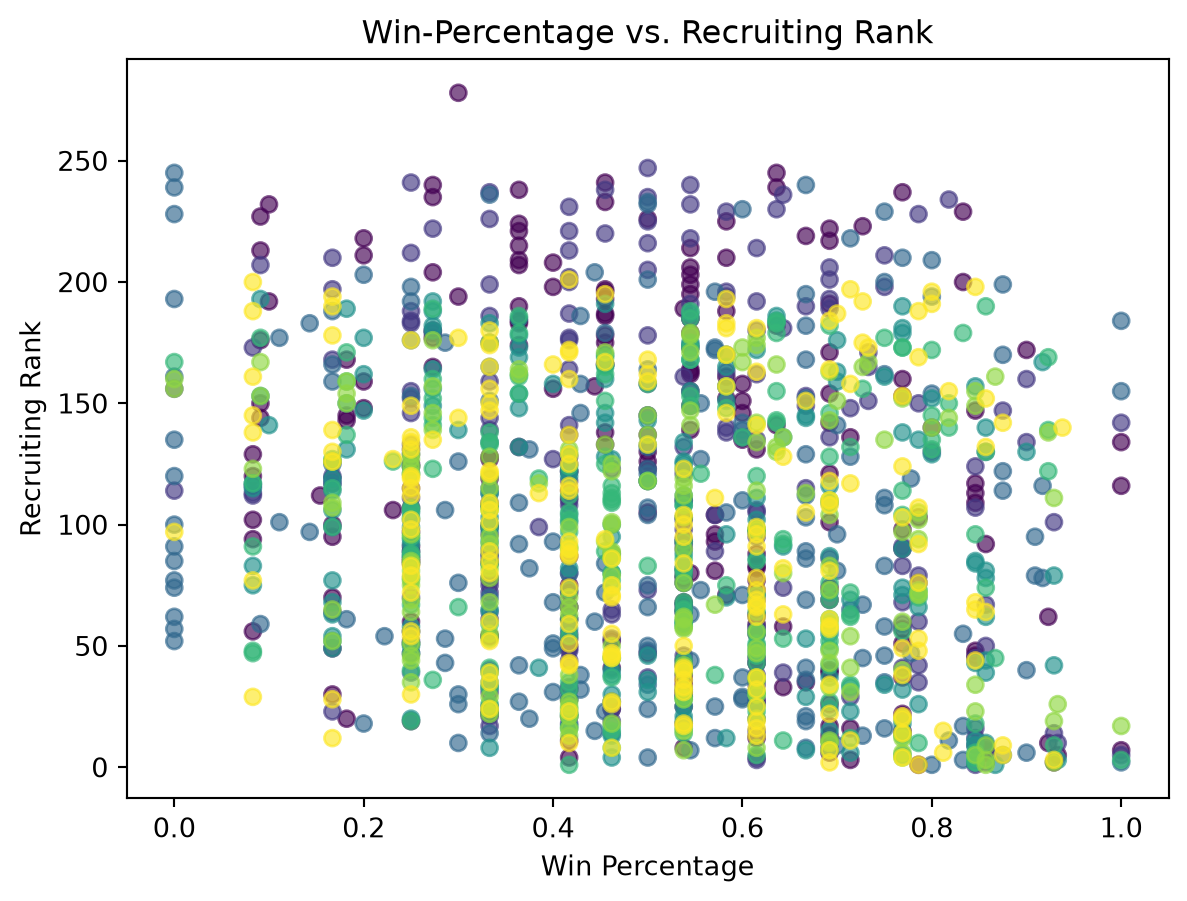
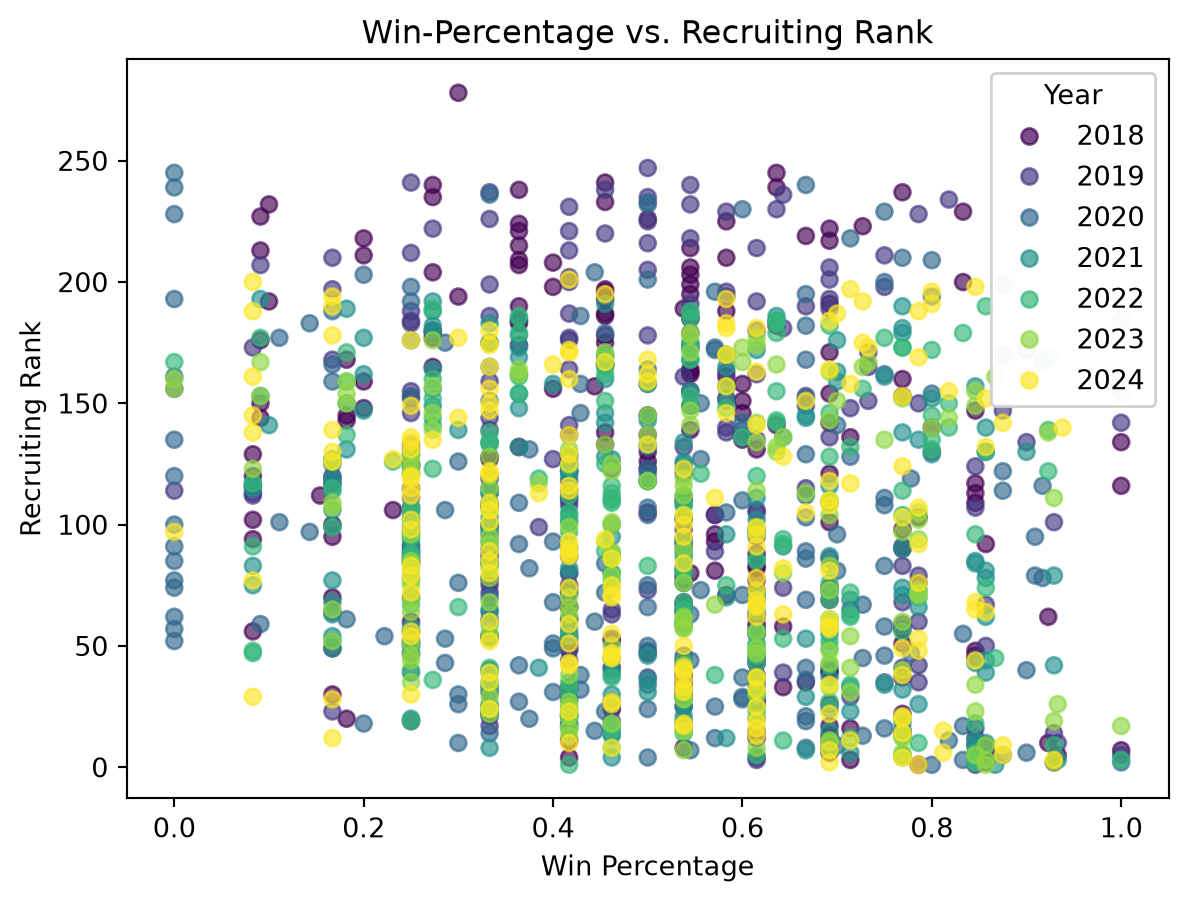
made minor grammatical changes and added a legend

diff --git a/docs/data_acquisiton_blog.html b/docs/data_acquisiton_blog.html
@@ -7,9 +7,9 @@
 <meta name="viewport" content="width=device-width, initial-scale=1.0, user-scalable=yes">
 
 <meta name="author" content="Hailey Peterson">
-<meta name="dcterms.date" content="2026-11-06">
+<meta name="dcterms.date" content="2026-11-13">
 
-<title>Data Acquisition: A How to Use College Football APIs – Hailey Peterson</title>
+<title>Data Acquisition: How to Use College Football APIs – Hailey Peterson</title>
 <style>
 /* Default styles provided by pandoc.
 ** See https://pandoc.org/MANUAL.html#variables-for-html for config info.
@@ -163,7 +163,7 @@ pre > code.sourceCode > span > a:first-child::before { text-decoration: underlin
   <ul class="collapse">
   <li><a href="#ethical-considerations" id="toc-ethical-considerations" class="nav-link" data-scroll-target="#ethical-considerations">Ethical Considerations</a></li>
   </ul></li>
-  <li><a href="#the-acquisition-pipleline-how-to-get-started" id="toc-the-acquisition-pipleline-how-to-get-started" class="nav-link" data-scroll-target="#the-acquisition-pipleline-how-to-get-started">The Acquisition Pipleline: How to Get Started</a>
+  <li><a href="#the-acquisition-pipeline-how-to-get-started" id="toc-the-acquisition-pipeline-how-to-get-started" class="nav-link" data-scroll-target="#the-acquisition-pipeline-how-to-get-started">The Acquisition Pipeline: How to Get Started</a>
   <ul class="collapse">
   <li><a href="#scaling-and-merging-across-seasons" id="toc-scaling-and-merging-across-seasons" class="nav-link" data-scroll-target="#scaling-and-merging-across-seasons">Scaling and Merging Across Seasons</a></li>
   </ul></li>
@@ -187,7 +187,7 @@ pre > code.sourceCode > span > a:first-child::before { text-decoration: underlin
 
 <header id="title-block-header" class="quarto-title-block default">
 <div class="quarto-title">
-<h1 class="title">Data Acquisition: A How to Use College Football APIs</h1>
+<h1 class="title">Data Acquisition: How to Use College Football APIs</h1>
 </div>
 
 
@@ -204,7 +204,7 @@ pre > code.sourceCode > span > a:first-child::before { text-decoration: underlin
     <div>
     <div class="quarto-title-meta-heading">Published</div>
     <div class="quarto-title-meta-contents">
-      <p class="date">November 6, 2026</p>
+      <p class="date">November 13, 2026</p>
     </div>
   </div>
   
@@ -218,15 +218,15 @@ pre > code.sourceCode > span > a:first-child::before { text-decoration: underlin
 
 <section id="introduction---motivation" class="level1">
 <h1>Introduction - Motivation</h1>
-<p>Every recruiting cycle, NCAA Division I athletic departments pour hundreds of thousands and upwards of millions of dollares into high school talent acquisition. With the recent explosion of Name, Image, and Likeness (NIL) collectives and transfer portal dynamics, the financial stakes of securing elite recruits has never been higher, even at risk of nearly bankrupting schools. Alumni and athletic directors pour immense capital into getting four or five star high school prospects with a single expectation: getting wins on Saturdays. But does an elite recruiting class reliably translate into regular-season success? Or do coaching schemes, development, transfer acquisitions, and conference membership dilute the power of raw high school talent? To investigate this question empirically, I curated an original multi-season dataset from 2018 to 2024. By combining historical recruiting composite rankings with seasonal win-loss records, this project explores the relationship between high school recruiting ranks and actual on-field winning percentage across FBS and FCS.</p>
+<p>Every recruiting cycle, NCAA Division I athletic departments pour hundreds of thousands and upwards of millions of dollars into high school talent acquisition. With the recent explosion of Name, Image, and Likeness (NIL) collectives and transfer portal dynamics, the financial stakes of securing elite recruits have never been higher, even at the risk of nearly bankrupting schools. Alumni and athletic directors pour immense capital into getting four or five star high school prospects with a single expectation: getting wins on Saturdays. But does an elite recruiting class reliably translate into regular-season success? Or do coaching schemes, development, transfer acquisitions, and conference membership dilute the power of raw high school talent? To investigate this question empirically, I curated an original multi-season dataset from 2018 to 2024. By combining historical recruiting composite rankings with seasonal win-loss records, this project explores the relationship between high school recruiting ranks and actual on-field winning percentage across FBS and FCS.</p>
 <section id="ethical-considerations" class="level2">
 <h2 class="anchored" data-anchor-id="ethical-considerations">Ethical Considerations</h2>
-<p>CFBD provids free academic and hobbyist API keys to anyone who register with their email. However, their official <a href="https://collegefootballdata.com/terms">CFBD Terms of Use</a> establish clear guidelines regarding security and redistribution. To sum up the terms, raw data outputs are prohibited from being a standalone download (i.e.&nbsp;no uploading the data to GitHub), API keys must remain confidential and should never be committed to GitHub, and automated scripts must respect server capacity (i.e.&nbsp;use a timer to space the calls to the server to not overload).</p>
+<p>CFBD provides free academic and hobbyist API keys to anyone who registers with their email. However, their official <a href="https://collegefootballdata.com/terms">CFBD Terms of Use</a> establish clear guidelines regarding security and redistribution. To sum up the terms, raw data outputs are prohibited from being a standalone download (i.e., no uploading the data to GitHub), API keys must remain confidential and should never be committed to GitHub, and automated scripts must respect server capacity (i.e., use a timer to space the calls to the server to not overload).</p>
 <p>To comply with these guidelines, I kept all API authentication tokens isolated in a local <code>.env</code> configuration file, which is permanently excluded via <code>.gitignore</code>. Furthermore, my collection pipeline incorporates explicit <code>time.sleep(0.5)</code> intervals between requests to maintain respectful server traffic.</p>
 </section>
 </section>
-<section id="the-acquisition-pipleline-how-to-get-started" class="level1">
-<h1>The Acquisition Pipleline: How to Get Started</h1>
+<section id="the-acquisition-pipeline-how-to-get-started" class="level1">
+<h1>The Acquisition Pipeline: How to Get Started</h1>
 <p>To begin, go to <a href="https://collegefootballdata.com">CollegeFootballData API</a> where you can submit your email to get your personalized API key. The email should come through immediately. Once you have your API key you can begin!</p>
 <p>If you want to assemble a similar sports dataset for your own research, you do not need complex web scrapers. The CFBD REST interface provides clean, structured JSON endpoints that can be fetched using Python’s <code>requests</code> library and normalized directly with <code>pandas</code>.</p>
 <p>You can review the full, reproducible collection pipeline in the project’s <a href="https://github.com/hnpeterson8/data_acquisition_blog_code">GitHub Repository</a> (specifically within <code>scripts/acquire_data.py</code>). Here is the core programmatic pattern used to retrieve and unpack recruiting rankings:</p>
@@ -252,8 +252,8 @@ pre > code.sourceCode > span > a:first-child::before { text-decoration: underlin
 <h3 class="anchored" data-anchor-id="scaling-and-merging-across-seasons">Scaling and Merging Across Seasons</h3>
 <p>In the <code>acquire_data.qmd</code> script, this pattern is scaled across target years (2018-2024) in two distinct phases:</p>
 <ol type="1">
-<li><strong>Iterative Batch Retrieval:</strong> A <code>for</code> loop queries <code>/recruiting/teams</code> for each season, tehn append each year’s batch to a list before stacking them vertically with <code>pd.concat()</code>. A secondary loop pulls the win-loss records from the <code>/records</code> endpoint. ow</li>
-<li><strong>Feature Engineering and Merging:</strong> Because the raw records endpoint returns separate counts for total games and wins, I computed win percentage as <code>win_pct = wins / games</code>. Then school names were standardized and the two tables were joined using <code>pd.merge()</code> on composite keys <code>['team', 'year']</code> with relational validataion (<code>validate = 'many_to_one'</code>).</li>
+<li><p><strong>Iterative Batch Retrieval:</strong> A <code>for</code> loop queries <code>/recruiting/teams</code> for each season, then append each year’s batch to a list before stacking them vertically with <code>pd.concat()</code>. A secondary loop pulls the win-loss records from the <code>/records</code> endpoint.</p></li>
+<li><p><strong>Feature Engineering and Merging:</strong> Because the raw records endpoint returns separate counts for total games and wins, I computed win percentage as <code>win_pct = wins / games</code>. Then school names were standardized and the two tables were joined using <code>pd.merge()</code> on composite keys <code>['team', 'year']</code> with relational validation (<code>validate = 'many_to_one'</code>).</p></li>
 </ol>
 </section>
 </section>
@@ -314,20 +314,25 @@ pre > code.sourceCode > span > a:first-child::before { text-decoration: underlin
 <p>With our dataset assembled, we can evaluate how strongly high school recruiting power correlates with collegiate victory. The code and data can be accessed directly from the project repository’s <code>eda.qmd</code> file.</p>
 <section id="visualizing-the-global-trend" class="level2">
 <h2 class="anchored" data-anchor-id="visualizing-the-global-trend">1. Visualizing the Global Trend</h2>
-<div id="f8b6bbbf" class="cell" data-execution_count="1">
+<div id="13ae90d2" class="cell" data-execution_count="1">
 <div class="code-copy-outer-scaffold"><div class="sourceCode cell-code" id="cb2"><pre class="sourceCode python code-with-copy"><code class="sourceCode python"><span id="cb2-1"><a href="#cb2-1" aria-hidden="true" tabindex="-1"></a><span class="im">import</span> pandas <span class="im">as</span> pd</span>
 <span id="cb2-2"><a href="#cb2-2" aria-hidden="true" tabindex="-1"></a><span class="im">import</span> numpy <span class="im">as</span> np</span>
 <span id="cb2-3"><a href="#cb2-3" aria-hidden="true" tabindex="-1"></a><span class="im">import</span> matplotlib.pyplot <span class="im">as</span> plt</span>
 <span id="cb2-4"><a href="#cb2-4" aria-hidden="true" tabindex="-1"></a></span>
 <span id="cb2-5"><a href="#cb2-5" aria-hidden="true" tabindex="-1"></a><span class="co"># load in the data</span></span>
 <span id="cb2-6"><a href="#cb2-6" aria-hidden="true" tabindex="-1"></a>data <span class="op">=</span> pd.read_csv(<span class="st">"data/college_football.csv"</span>)</span>
-<span id="cb2-7"><a href="#cb2-7" aria-hidden="true" tabindex="-1"></a></span>
-<span id="cb2-8"><a href="#cb2-8" aria-hidden="true" tabindex="-1"></a><span class="co"># plot of win pct vs recruiting rank</span></span>
-<span id="cb2-9"><a href="#cb2-9" aria-hidden="true" tabindex="-1"></a>fig, ax <span class="op">=</span> plt.subplots()</span>
-<span id="cb2-10"><a href="#cb2-10" aria-hidden="true" tabindex="-1"></a>ax.scatter(data[<span class="st">"win_pct"</span>], data[<span class="st">"recruiting_rank"</span>], c <span class="op">=</span> data[<span class="st">"year"</span>], alpha <span class="op">=</span> <span class="fl">0.65</span>)</span>
-<span id="cb2-11"><a href="#cb2-11" aria-hidden="true" tabindex="-1"></a>ax.<span class="bu">set</span>(xlabel<span class="op">=</span><span class="st">"Win Percentage"</span>,</span>
-<span id="cb2-12"><a href="#cb2-12" aria-hidden="true" tabindex="-1"></a>       ylabel<span class="op">=</span><span class="st">"Recruiting Rank"</span>, title<span class="op">=</span><span class="st">"Win-Percentage vs. Recruiting Rank"</span>)</span>
-<span id="cb2-13"><a href="#cb2-13" aria-hidden="true" tabindex="-1"></a>plt.show()</span></code></pre></div><button title="Copy to Clipboard" class="code-copy-button"><i class="bi"></i></button></div>
+<span id="cb2-7"><a href="#cb2-7" aria-hidden="true" tabindex="-1"></a>clean_data <span class="op">=</span> data.dropna(subset<span class="op">=</span>[<span class="st">"win_pct"</span>, <span class="st">"recruiting_rank"</span>, <span class="st">"year"</span>])</span>
+<span id="cb2-8"><a href="#cb2-8" aria-hidden="true" tabindex="-1"></a></span>
+<span id="cb2-9"><a href="#cb2-9" aria-hidden="true" tabindex="-1"></a><span class="co"># plot of win pct vs recruiting rank</span></span>
+<span id="cb2-10"><a href="#cb2-10" aria-hidden="true" tabindex="-1"></a>fig, ax <span class="op">=</span> plt.subplots()</span>
+<span id="cb2-11"><a href="#cb2-11" aria-hidden="true" tabindex="-1"></a>scatter <span class="op">=</span> ax.scatter(clean_data[<span class="st">"win_pct"</span>], </span>
+<span id="cb2-12"><a href="#cb2-12" aria-hidden="true" tabindex="-1"></a>    clean_data[<span class="st">"recruiting_rank"</span>], </span>
+<span id="cb2-13"><a href="#cb2-13" aria-hidden="true" tabindex="-1"></a>    c<span class="op">=</span>clean_data[<span class="st">"year"</span>].astype(<span class="bu">int</span>), alpha <span class="op">=</span> <span class="fl">0.65</span>)</span>
+<span id="cb2-14"><a href="#cb2-14" aria-hidden="true" tabindex="-1"></a>ax.<span class="bu">set</span>(xlabel<span class="op">=</span><span class="st">"Win Percentage"</span>,</span>
+<span id="cb2-15"><a href="#cb2-15" aria-hidden="true" tabindex="-1"></a>       ylabel<span class="op">=</span><span class="st">"Recruiting Rank"</span>, title<span class="op">=</span><span class="st">"Win-Percentage vs. Recruiting Rank"</span>)</span>
+<span id="cb2-16"><a href="#cb2-16" aria-hidden="true" tabindex="-1"></a>legend1 <span class="op">=</span> ax.legend(<span class="op">*</span>scatter.legend_elements(), title<span class="op">=</span><span class="st">"Year"</span>)</span>
+<span id="cb2-17"><a href="#cb2-17" aria-hidden="true" tabindex="-1"></a>ax.add_artist(legend1)</span>
+<span id="cb2-18"><a href="#cb2-18" aria-hidden="true" tabindex="-1"></a>plt.show()</span></code></pre></div><button title="Copy to Clipboard" class="code-copy-button"><i class="bi"></i></button></div>
 <div class="cell-output cell-output-display">
 <div>
 <figure class="figure">
@@ -341,7 +346,7 @@ pre > code.sourceCode > span > a:first-child::before { text-decoration: underlin
 <section id="year-by-year-correlation" class="level2">
 <h2 class="anchored" data-anchor-id="year-by-year-correlation">2. Year-by-Year Correlation</h2>
 <p>To quantify this relationship across time, we calculate the correlation coefficient between <code>win_pct</code> and <code>recruiting_rank</code> grouped by season:</p>
-<div id="031b199f" class="cell" data-execution_count="2">
+<div id="70fc1a07" class="cell" data-execution_count="2">
 <div class="code-copy-outer-scaffold"><div class="sourceCode cell-code" id="cb3"><pre class="sourceCode python code-with-copy"><code class="sourceCode python"><span id="cb3-1"><a href="#cb3-1" aria-hidden="true" tabindex="-1"></a><span class="co"># correlation between win percentage and recruiting rank</span></span>
 <span id="cb3-2"><a href="#cb3-2" aria-hidden="true" tabindex="-1"></a><span class="co"># in theory we should see a negative correlation (higher rank corresponds to lower number)</span></span>
 <span id="cb3-3"><a href="#cb3-3" aria-hidden="true" tabindex="-1"></a><span class="co">## see if there is difference by year</span></span>
@@ -366,12 +371,12 @@ pre > code.sourceCode > span > a:first-child::before { text-decoration: underlin
 6  2024 -0.164641</code></pre>
 </div>
 </div>
-<p>Based on the year by year correlations, each year sees a weak negative correlation. 2020 sees the weakest correlation of -0.101, but that could be due to this being the Covid year and so the seasons were shorter and structured differently than other years.</p>
+<p>Based on the year by year correlations, each year sees a weak negative correlation. This means that as the rank number increases (worse rank), the win percentage generally goes down. 2020 sees the weakest correlation of -0.101, but that could be due to this being the Covid year and so the seasons were shorter and structured differently than other years.</p>
 </section>
 <section id="the-conference-divide-talent-vs.-execution" class="level2">
 <h2 class="anchored" data-anchor-id="the-conference-divide-talent-vs.-execution">3. The Conference Divide: Talent vs.&nbsp;Execution</h2>
 <p>Does raw recruiting talent matter equally across all conferences? In college athletics, strength of schedule and resource disparities vary widely. Grouping by conference reveals dramatic contrasts:</p>
-<div id="7d0623e0" class="cell" data-execution_count="3">
+<div id="ace0d6cb" class="cell" data-execution_count="3">
 <div class="code-copy-outer-scaffold"><div class="sourceCode cell-code" id="cb5"><pre class="sourceCode python code-with-copy"><code class="sourceCode python"><span id="cb5-1"><a href="#cb5-1" aria-hidden="true" tabindex="-1"></a><span class="co">## look how it works within conferences</span></span>
 <span id="cb5-2"><a href="#cb5-2" aria-hidden="true" tabindex="-1"></a>conf_corr <span class="op">=</span> (</span>
 <span id="cb5-3"><a href="#cb5-3" aria-hidden="true" tabindex="-1"></a>    data.groupby(<span class="st">"conference"</span>)</span>
@@ -427,8 +432,8 @@ pre > code.sourceCode > span > a:first-child::before { text-decoration: underlin
 <h2 class="anchored" data-anchor-id="the-monopolistic-top-10">The Monopolistic Top 10</h2>
 <p>Examining the extremes of the dataset highlights college football’s talent consolidation:</p>
 <ul>
-<li><p><strong>The Top 10:</strong> Across 7 seasons (70 possible top-10 slots), only <strong>17 unique schools</strong> ever appeared in the top 10 recruiting rankings. Furthermore, these 17 programs represent only 4 conferences (heavily dominated by the SEC and Big Ten). Programs like Alabama, Georgia, Ohio State, and Texas effectively lock down the talent pipeline year after year.</p></li>
-<li><p><strong>The Bottom 10:</strong> Across the lowest-ranked recruiting classes, we find <strong>57 unique teams</strong> spanning 18 conferences.</p></li>
+<li><p><strong>The Top 10:</strong> Across 7 seasons (70 possible top-10 slots), only 17 unique schools ever appeared in the top 10 recruiting rankings. Furthermore, these 17 programs represent only 4 conferences (heavily dominated by the SEC and Big Ten). Programs like Alabama, Georgia, Ohio State, and Texas effectively lock down the talent pipeline year after year.</p></li>
+<li><p><strong>The Bottom 10:</strong> Across the lowest-ranked recruiting classes, we find 57 unique teams spanning 18 conferences.</p></li>
 </ul>
 <p>This asymmetry shows that while elite talent acquisition is a tightly guarded monopoly with immense barriers to entry, the bottom of the recruiting hierarchy is volatile and widely dispersed.</p>
 </section>
@@ -436,13 +441,13 @@ pre > code.sourceCode > span > a:first-child::before { text-decoration: underlin
 <section id="conclusion-next-steps" class="level1">
 <h1>Conclusion &amp; Next Steps</h1>
 <p>This project illustrates the mechanics of taking a real-world question, verifying ethical API boundaries, constructing an automated retrieval script, and analyzing the resulting data.</p>
-<p>While securing a top-10 recruiting class nearly guarantees your teams being competitive, it is not the whole story. Coaching turnover, injuries, transfer portal additions and losses, and game-day luck account for nearly the rest of the story.</p>
+<p>While securing a top-10 recruiting class nearly guarantees your team will be competitive, it is not the whole story. Coaching turnover, injuries, transfer portal additions and losses, and game-day luck account for the rest of the story.</p>
 <section id="resources-further-reading" class="level3">
 <h3 class="anchored" data-anchor-id="resources-further-reading">Resources &amp; Further Reading</h3>
 <ul>
-<li><strong>Code Repository:</strong> Access the pipeline scripts, environment templates, and data cleaning routines at my <a href="https://github.com/hnpeterson8/data_acquisition_blog_code">Data Acquisition GitHub Repository</a>.</li>
-<li><strong>API Documentation:</strong> Learn more about collegiate metrics and register for a developer key at <a href="https://collegefootballdata.com">CollegeFootballData.com</a>.</li>
-<li><strong>Explore Further:</strong> Try adapting the pipeline script to pull the <code>/stats/season</code> endpoint to see whether offensive yards per play or turnover margin correlates more strongly with wins than high school recruiting scores!</li>
+<li><p><strong>Code Repository:</strong> Access the pipeline scripts, environment templates, and data cleaning routines at my <a href="https://github.com/hnpeterson8/data_acquisition_blog_code">Data Acquisition GitHub Repository</a>.</p></li>
+<li><p><strong>API Documentation:</strong> Learn more about collegiate metrics and register for a developer key at <a href="https://collegefootballdata.com">CollegeFootballData.com</a>.</p></li>
+<li><p><strong>Explore Further:</strong> Try adapting the pipeline script to pull the <code>/stats/season</code> endpoint to see whether offensive yards per play or turnover margin correlates more strongly with wins than high school recruiting scores!</p></li>
 </ul>
 
 
